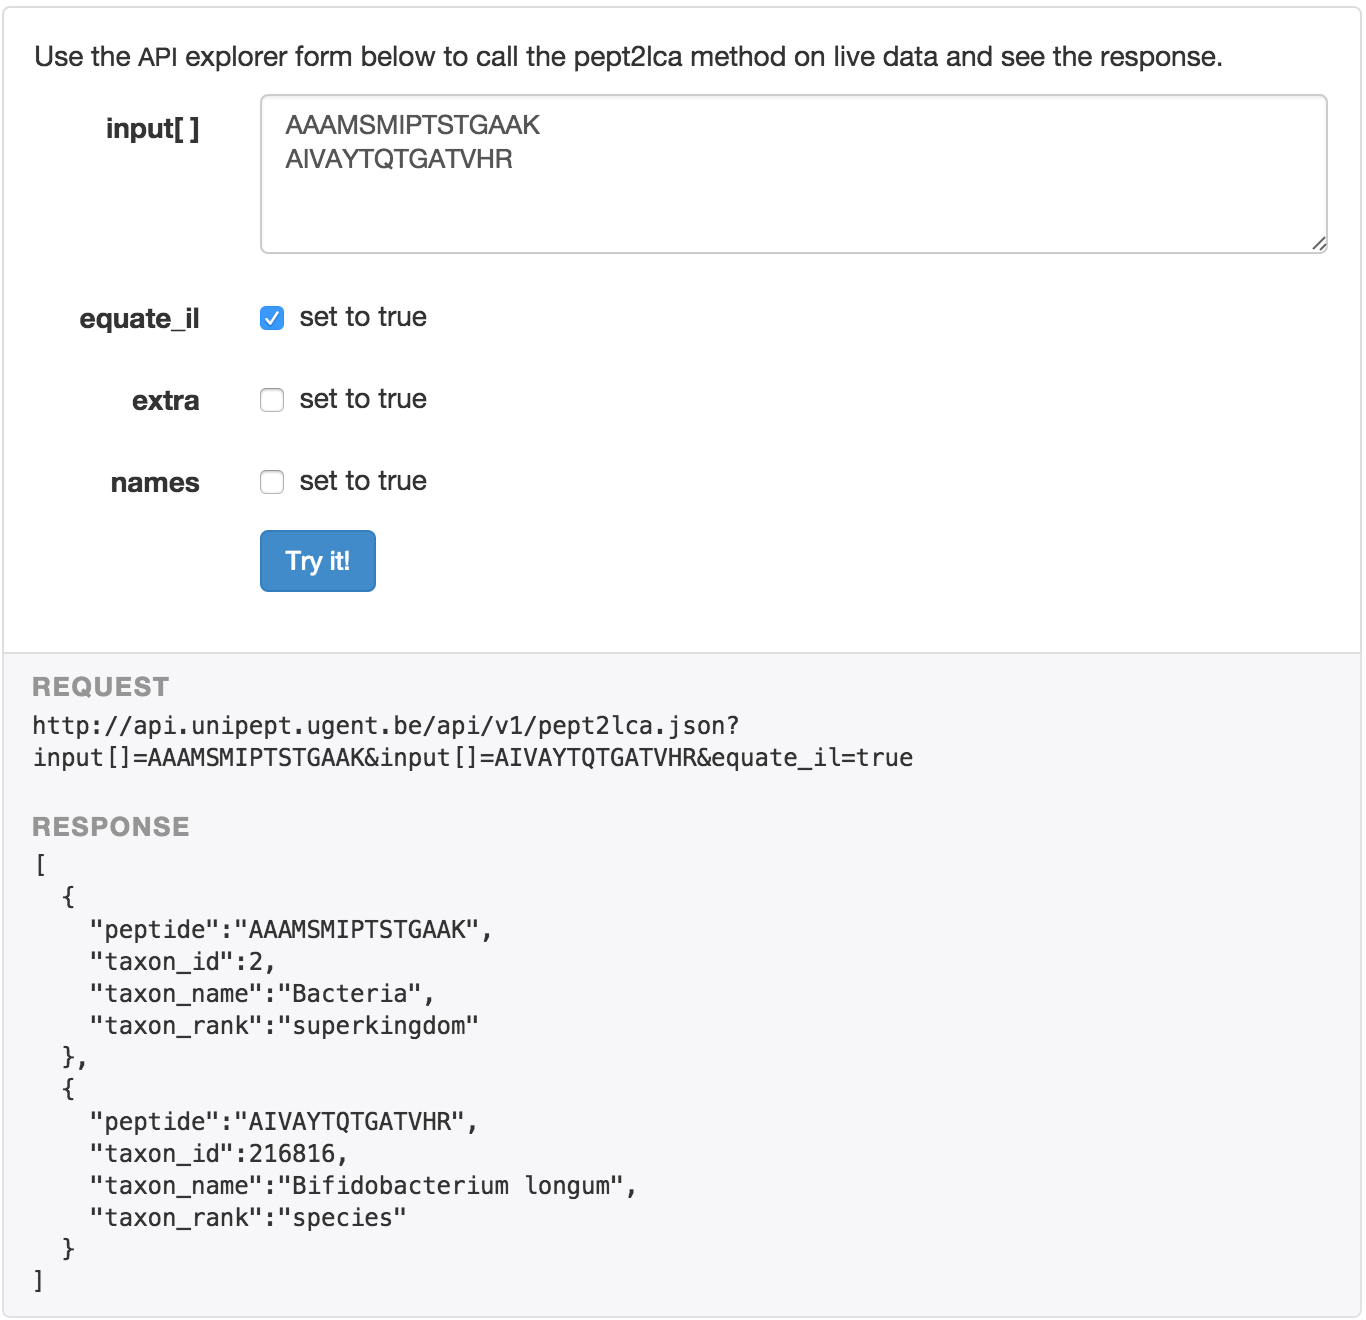
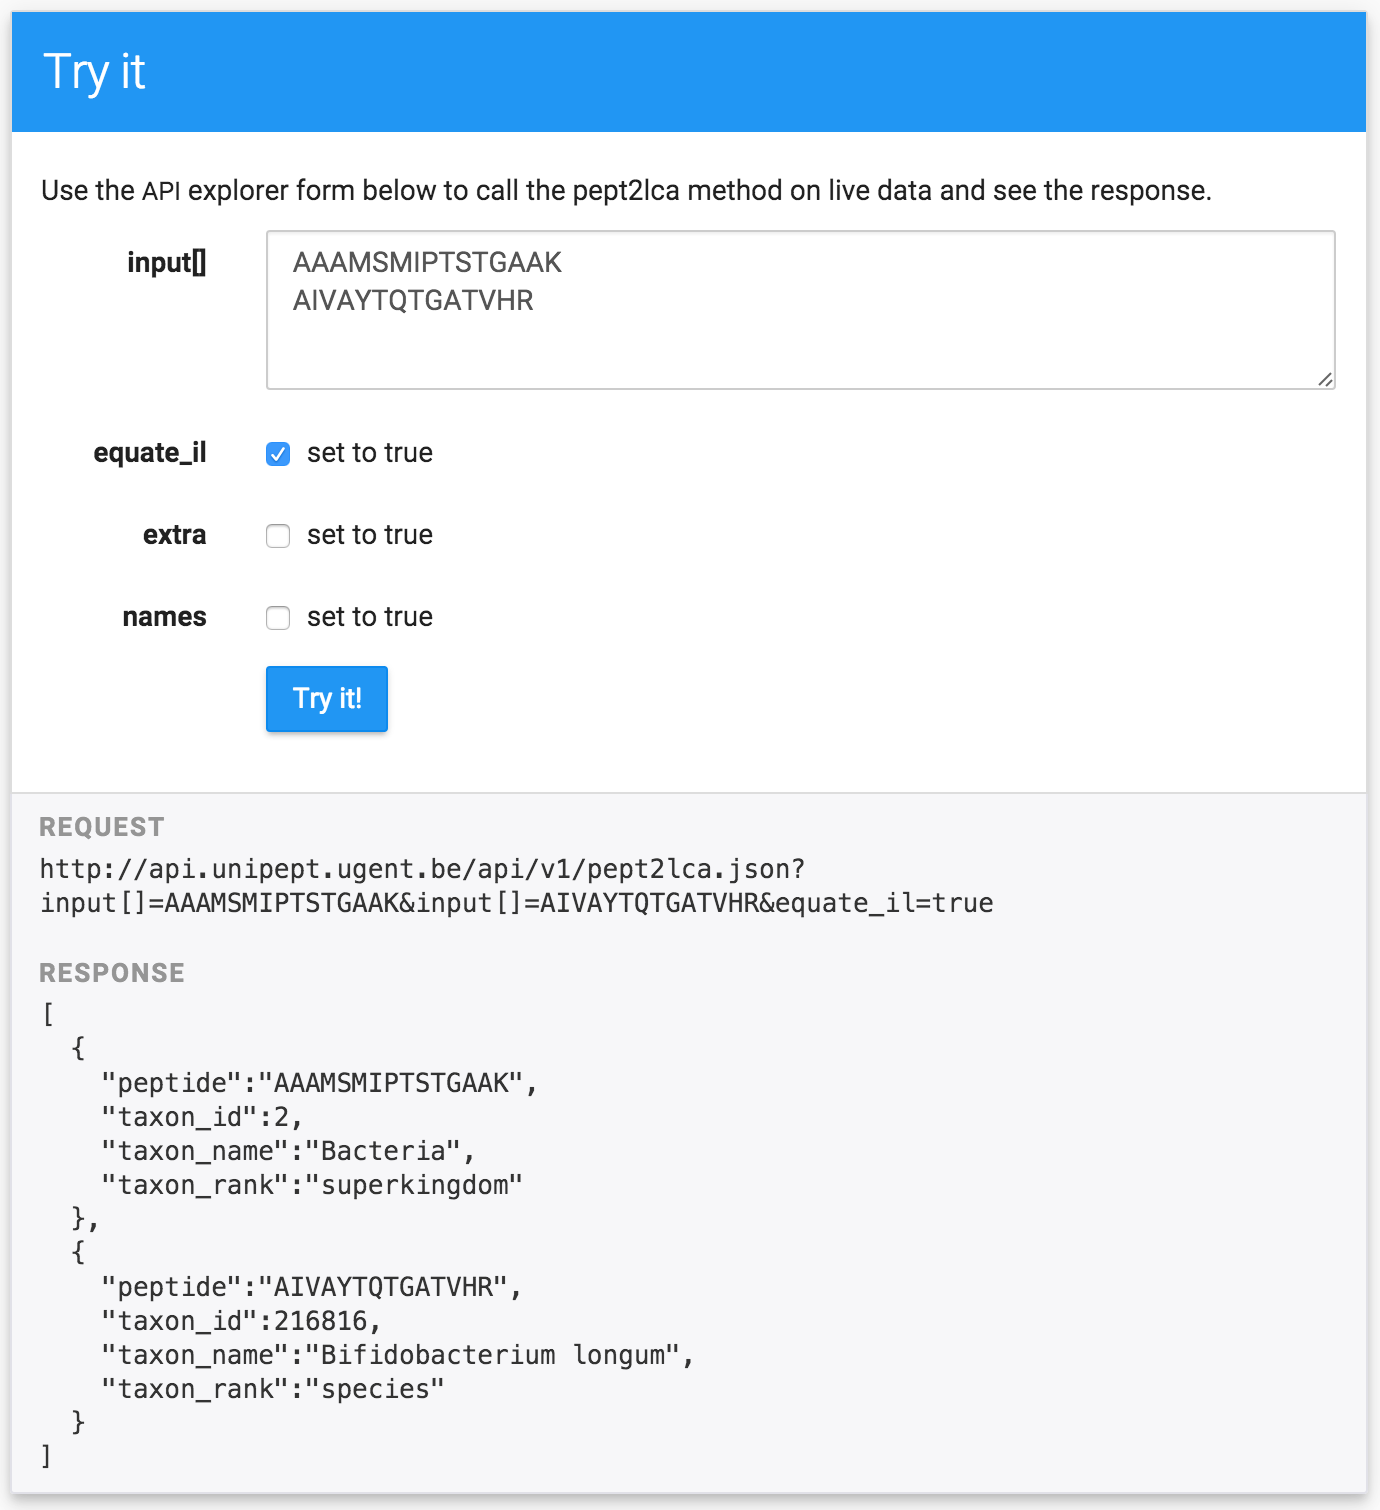
add section on API

diff --git a/chapter6.md b/chapter6.md
@@ -286,16 +286,16 @@ Multi-peptide analysis was renamed to metaproteomics analysis and a reset button
 <p style="display:none" class='image-screenshot'> </p> ![The restructured tryptic peptide analysis page in Unipept 2.4.](images/ch6fig19.png){#fig:ch6fig19}
 
 ##### API
-<p class='aside'>More information about the API from a functional point of view can be found in chapter 5.</p>
-* json
-* documentation
-* examples
-* try it
+To<span class='aside'>More information about the API from a functional point of view can be found in chapter 5.</span> allow access to the Unipept peptide analysis features from within other applications, we created a simple RESTful API. The API contains five methods (`pept2prot`, `pept2taxa`, `pept2lca`, `taxa2lca` and `taxonomy`) that can be accessed using HTTP POST or GET requests. The results are always returned in the JSON format. The API was designed with performance in mind, so by default, only a minimal number of fields are returned for each result. More information fields can be retrieved by explicitly asking for them when sending the request.
+
+The API comes with extensive documentation pages where every available method is explained in detailed. All posible input options and output fields are listed, along with several examples per method. Each documentation page also contains an interactive API explorer to compose requests and immediately see the results ([@Fig:ch6fig20]).
+
+<p style="display:none" class='pre-small-image'> </p> ![Screenshot of the API explorer, available on the documentation page of each of the Unipept API functions.](images/ch6fig20.png){#fig:ch6fig20}
 
 ##### Tests
 Unipept aims to comply to as many software development best practices as possible. A major shortcoming to this was the lack of automated tests. Unipept 2.4 remedies this problem by adding over 900 tests and achieving a 100% test coverage for the Ruby on Rails part of the application. While this means that every single line of Ruby code is executed during testing, it doesn't imply that every line is actually tested.
 
-Testing support is deeply integrated in Rails by the inclusion of a testing environment. This environment allows to specify separate settings for use during testing, for example a dedicated testing database. Furthermore, the testing framework Minitest<span class='aside'>The included framework is actually called TestUnit, a rails-specific flavor of Minitest.</span> is included since version 1.9. The Minitest framework offers support for different types of tests and a way to actually run the tests.
+Testing support is deeply integrated in Rails by the inclusion of a testing environment. This environment allows to specify separate settings for use during testing, for example a dedicated testing database.<span class='aside'>The included framework is actually called TestUnit, a rails-specific flavor of Minitest.</span> Furthermore, the testing framework Minitest is included since version 1.9. The Minitest framework offers support for different types of tests and a way to actually run the tests.
 
 All models are covered by unit tests, a way to test individual units of code. Because most models interact with the database, a separate test database is used. The data in this database is not actual data, but mock data specifically constructed for the tests. This mock data is specified in separate files called fixtures and is loaded into the database before every test is executed. The purpose of this is to create a known and fixed environment in which the tests can run so that the results are repeatable.
 

diff --git a/chapter5.md b/chapter5.md
@@ -33,7 +33,7 @@ The fundamental component in the Tryptic Peptide Analysis feature of Unipept is 
 
 Its web service counterpart, `pept2prot`, takes a single tryptic peptide as input and returns the list of all UniProt entries containing the given tryptic peptide. By default, for each entry, the UniProt accession number, protein name and associated NCBI taxon ID are returned. Optionally, users can also request additional information fields such as the name of the organism associated with the UniProt entry, a list of cross-referenced EC numbers [@Bairoch2000] and a list of cross-referenced GO terms [@Gene2014]. Users can also choose to equate the isobaric amino acids isoleucine (I) and leucine (L) when matching peptides to proteins, a typical option for mass spectrometry-related queries. Batch retrieval of multiple peptides at once is also supported.
 
-![Screenshot of the API explorer, available on the documentation page of each of the Unipept API functions. By using the form, all of the API features can be easily tested within a web browser. After clicking the "Try it!"" button, the resulting query string and response are shown. The figure shows the output for the `pept2lca` method used on the tryptic peptides <span class='small-caps'>aaamsmiptstgaak</span> and <span class='small-caps'>aivaytqtgatvhr</span> with the option to equate isoleucine and leucine when matching peptides to proteins. The LCA for <span class='small-caps'>aaamsmiptstgaak</span> is the superkingdom Bacteria, the LCA for <span class='small-caps'>aivaytqtgatvhr</span> is the species *Bifidobacterium longum*.](images/ch5fig5.png){#fig:ch5fig5}
+<p style="display:none" class='pre-small-image'> </p> ![Screenshot of the API explorer, available on the documentation page of each of the Unipept API functions. By using the form, all of the API features can be easily tested within a web browser. After clicking the "Try it!"" button, the resulting query string and response are shown. The figure shows the output for the `pept2lca` method used on the tryptic peptides <span class='small-caps'>aaamsmiptstgaak</span> and <span class='small-caps'>aivaytqtgatvhr</span> with the option to equate isoleucine and leucine when matching peptides to proteins. The LCA for <span class='small-caps'>aaamsmiptstgaak</span> is the superkingdom Bacteria, the LCA for <span class='small-caps'>aivaytqtgatvhr</span> is the species *Bifidobacterium longum*.](images/ch5fig5.png){#fig:ch5fig5}
 
 ##### pept2taxa
 After matching the UniProt entries, Unipept uses the cross-referenced NCBI taxon IDs to compile a set of organisms in which the queried peptide occurs. These organisms are then mapped to their taxonomic lineages using a cleaned up version of the NCBI taxonomy database. Using the web interface, the list of organisms along with their lineage can be found in the Lineage Table tab and an interactive visualization is available in the Lineage Tree tab (@Fig:ch5fig2).
